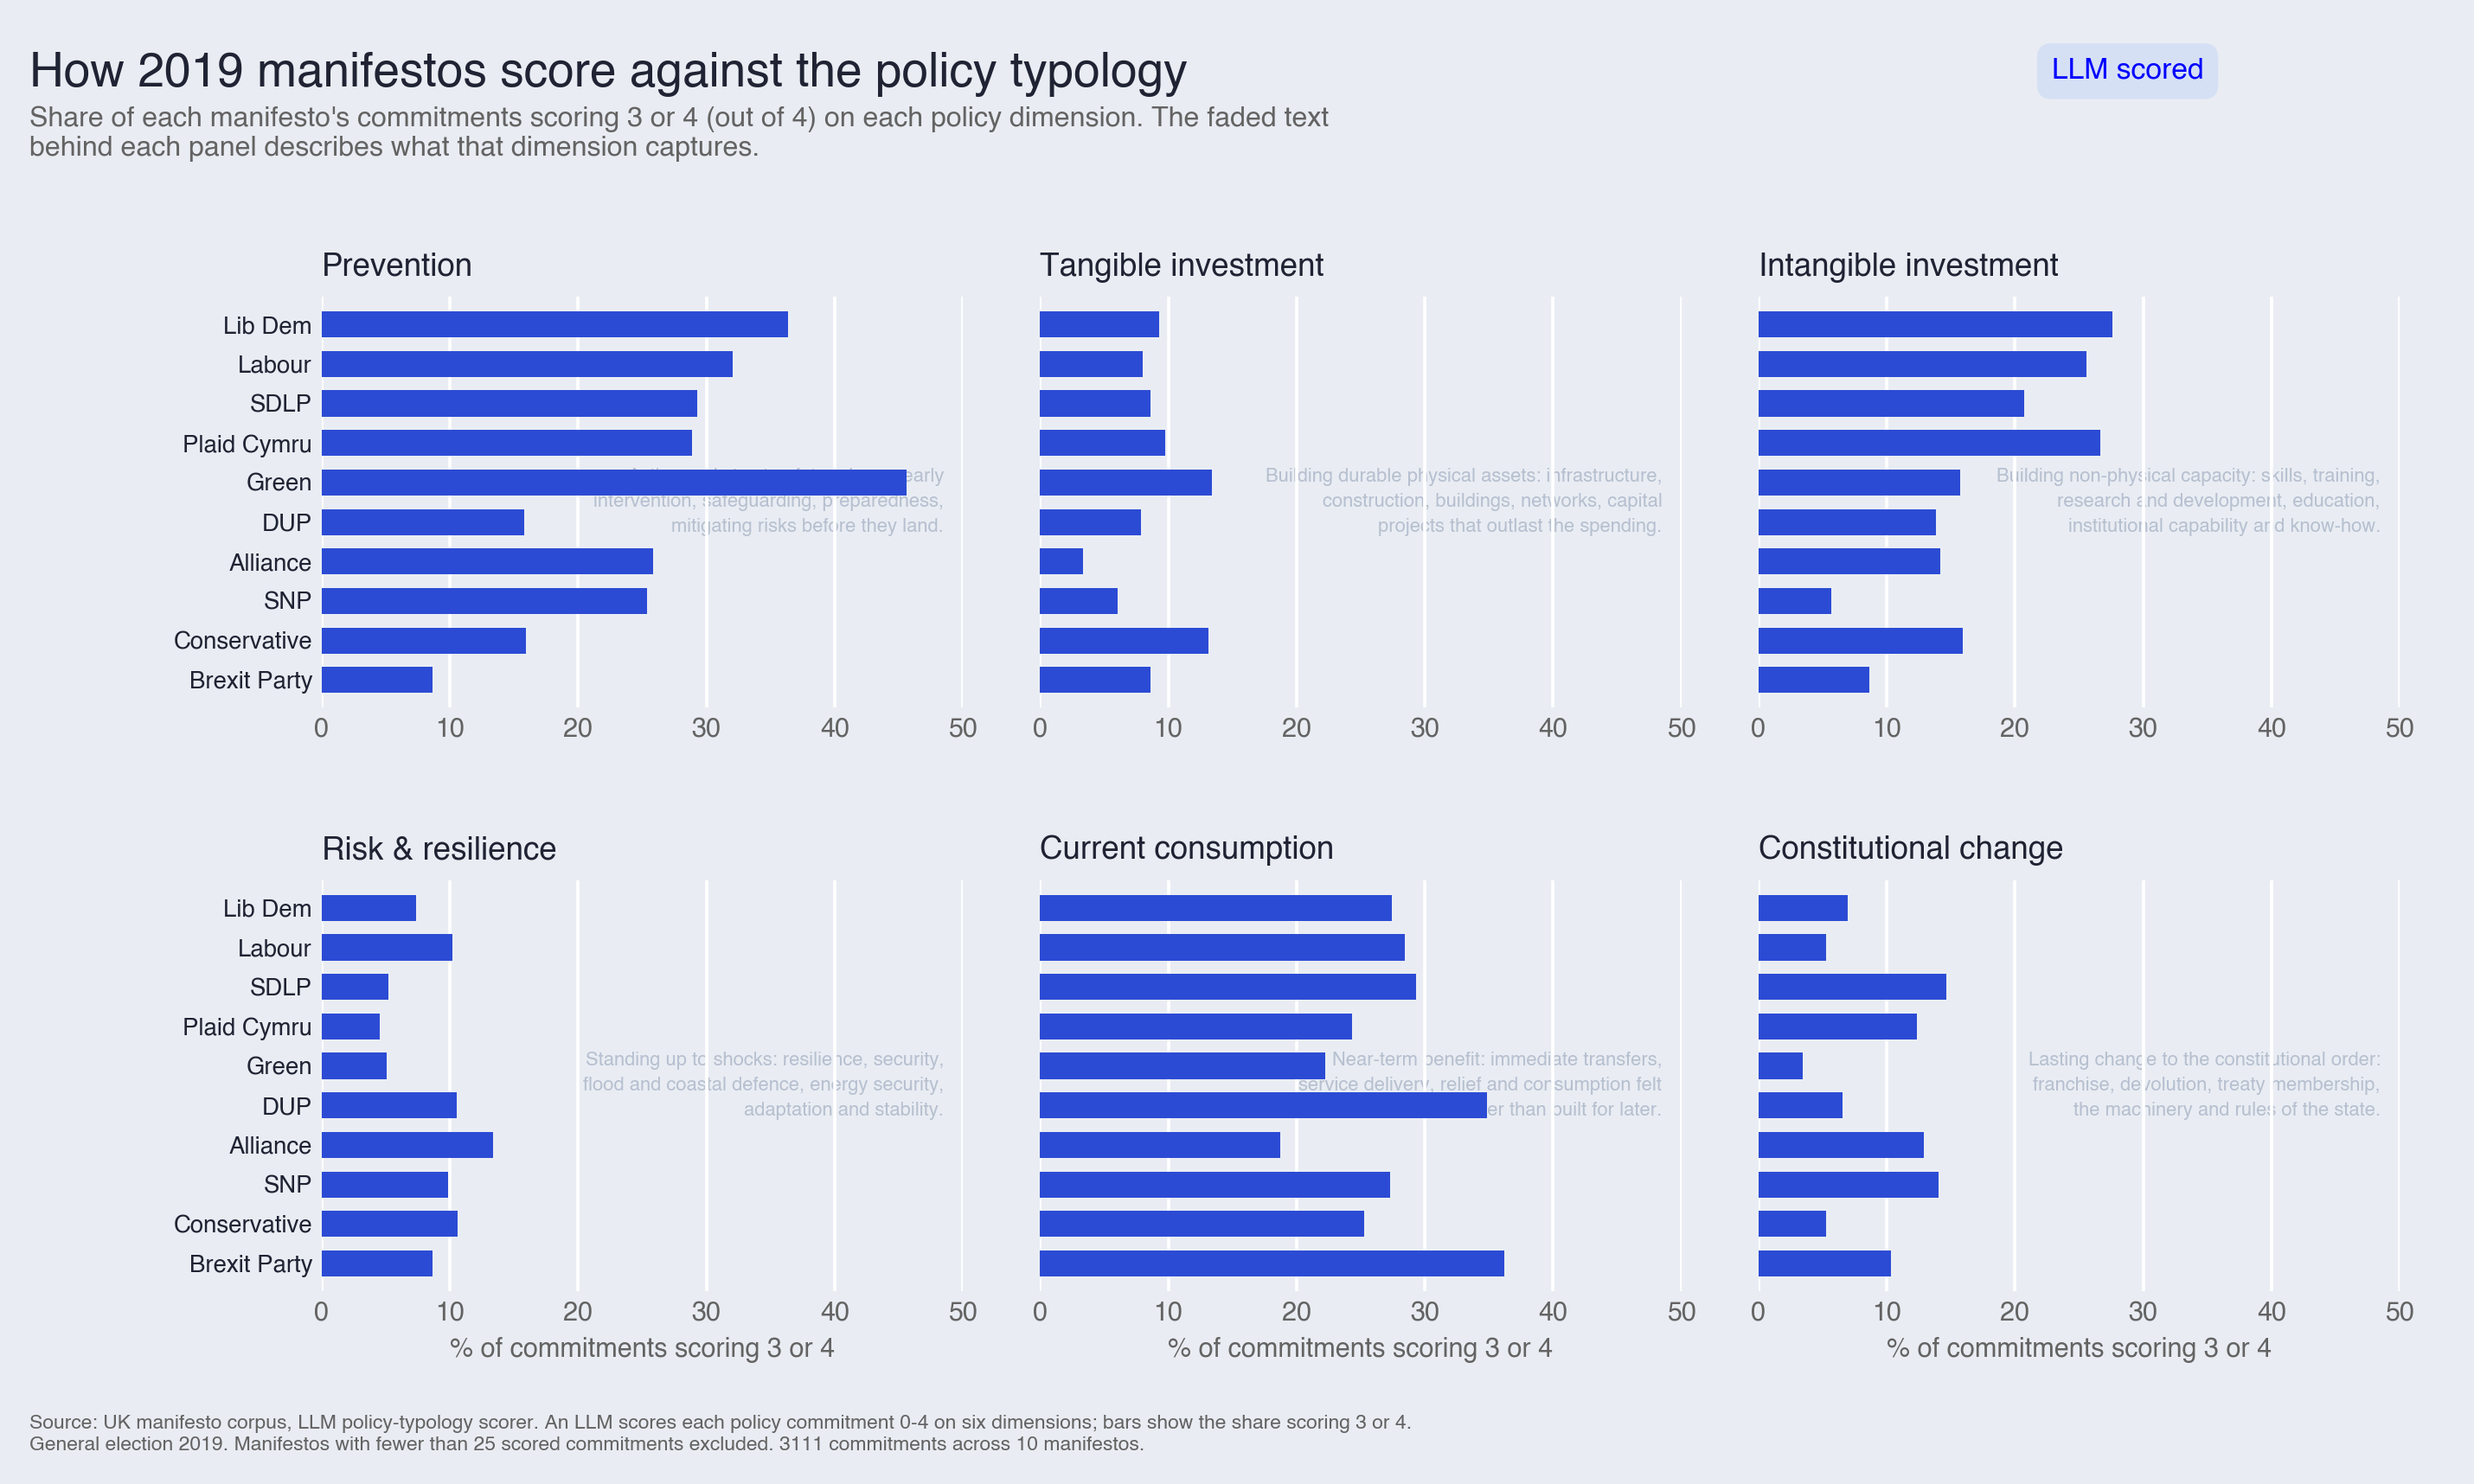
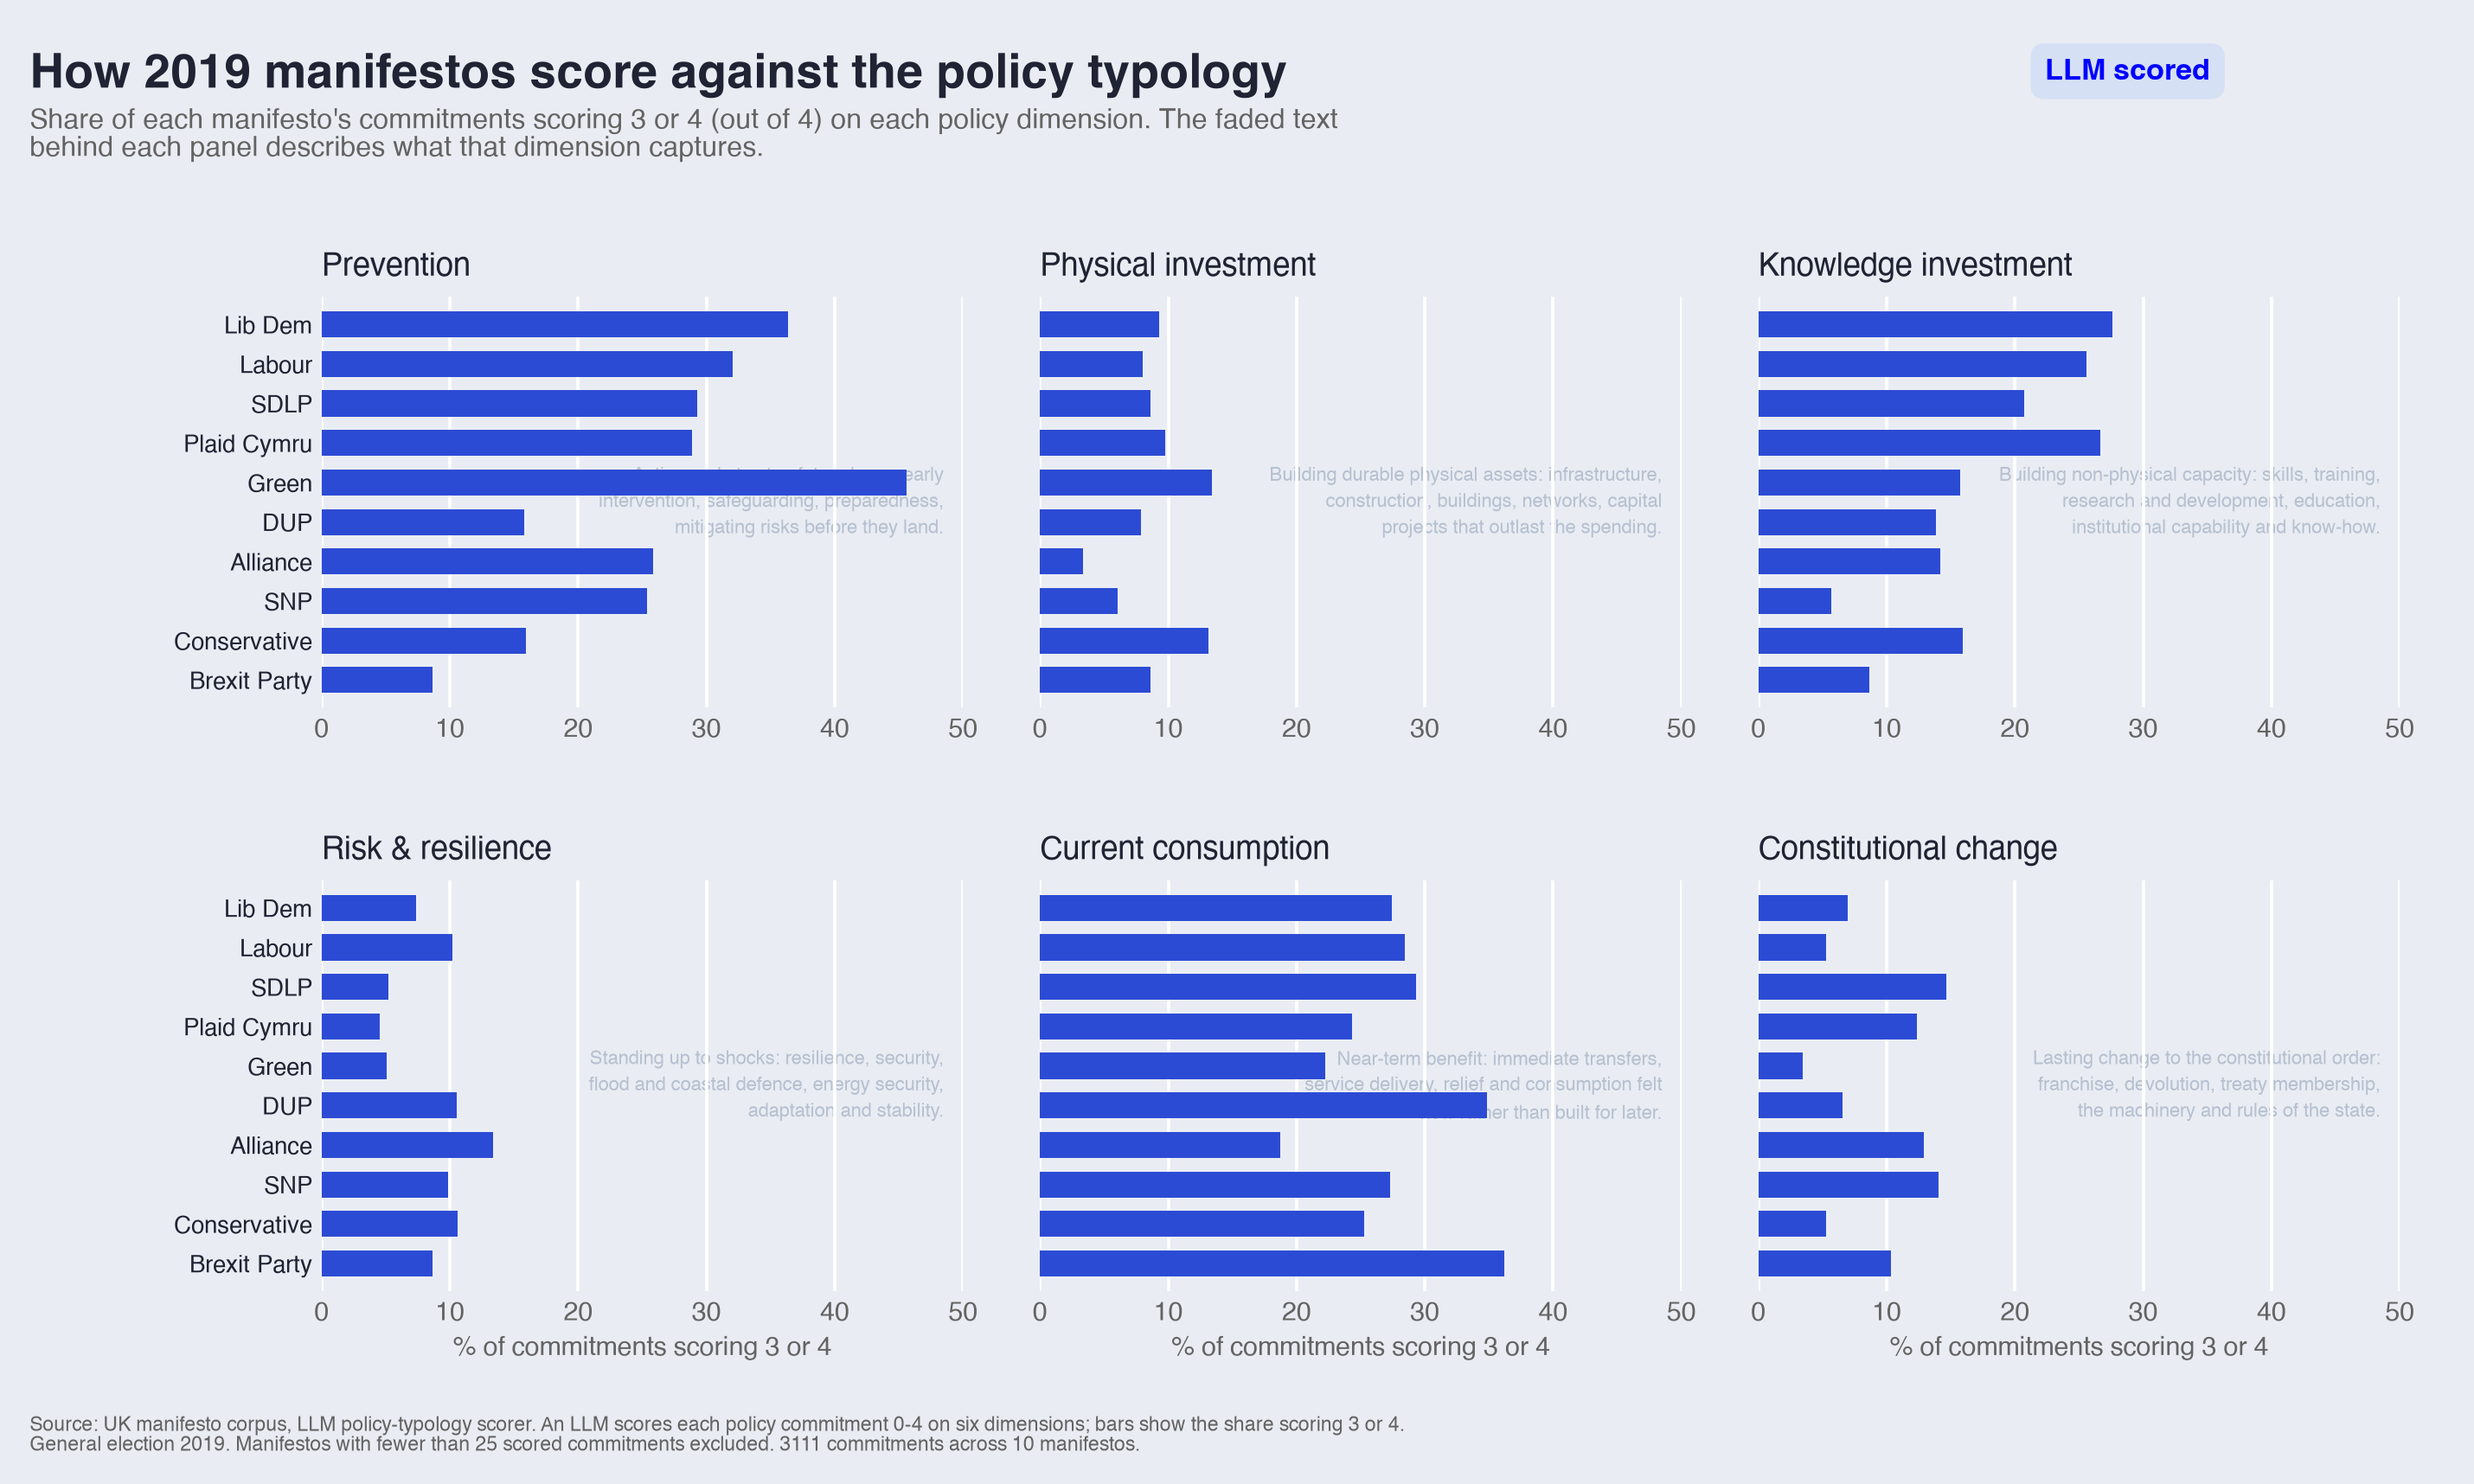
Relabel tangible/intangible investment as physical/knowledge investment in reader-facing text and charts (field names unchanged)

diff --git a/review_browser/app.js b/review_browser/app.js
@@ -1,7 +1,7 @@
 // Manifesto Commitment Review Browser
 // Single-file app: loads data.json, renders two-panel layout
 
-const DIM_LABELS = { P: 'Prevention', T: 'Tangible', I: 'Intangible', R: 'Resilience', C: 'Consumption', CC: 'Constitutional' };
+const DIM_LABELS = { P: 'Prevention', T: 'Physical', I: 'Knowledge', R: 'Resilience', C: 'Consumption', CC: 'Constitutional' };
 const DIMS = ['P', 'T', 'I', 'R', 'C', 'CC'];
 
 let DATA = null;

diff --git a/code/nlp/plot_manifestos_nlp.py b/code/nlp/plot_manifestos_nlp.py
@@ -384,8 +384,8 @@ def chart_year_scorecard(df: pd.DataFrame, year: int, output_dir: Path) -> None:
 
 RUBRIC_DIMENSIONS = [
     ("prevention", "Prevention"),
-    ("tangible_investment", "Tangible\ninvestment"),
-    ("intangible_investment", "Intangible\ninvestment"),
+    ("tangible_investment", "Physical\ninvestment"),
+    ("intangible_investment", "Knowledge\ninvestment"),
     ("risk_resilience", "Risk &\nresilience"),
     ("current_consumption", "Current\nconsumption"),
     ("constitutional_change", "Constitutional\nchange"),

diff --git a/README.md b/README.md
@@ -6,7 +6,7 @@ The project has two parts. First, we count words and phrases associated with lon
 
 ## Key outputs
 
-- **[`data/commitments.csv`](data/commitments.csv)** - 23,026 individual policy commitments extracted from the corpus, each scored across six policy dimensions (prevention, tangible investment, intangible investment, risk/resilience, current consumption, constitutional change) with supporting quotes and confidence signals.
+- **[`data/commitments.csv`](data/commitments.csv)** - 23,026 individual policy commitments extracted from the corpus, each scored across six policy dimensions (prevention, physical investment, knowledge investment, risk/resilience, current consumption, constitutional change) with supporting quotes and confidence signals.
 - **[`data/nlp_profiles.csv`](data/nlp_profiles.csv)** - word-count language profiles for each manifesto: hits and mentions per 1,000 words across ten curated word groups.
 - **[`figures/`](figures/)** - charts covering party rankings, historical trends, and a 2024 manifesto scorecard.
 - **[`manifestos/`](manifestos/)** - the source corpus: 108 party manifestos as PDFs, HTML, and plain text.
